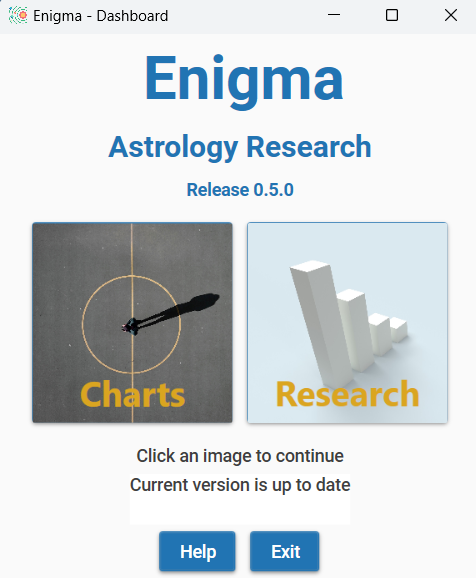
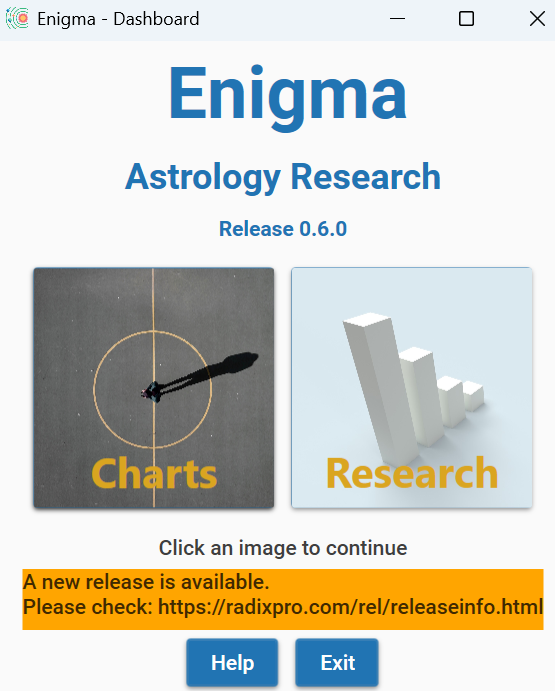
Update user manual and readme.

diff --git a/Enigma/Enigma.Frontend/Views/ConfigurationWindow.xaml b/Enigma/Enigma.Frontend/Views/ConfigurationWindow.xaml
@@ -12,7 +12,7 @@
         FontFamily="pack://application:,,,/MaterialDesignThemes.Wpf;component/Resources/Roboto/#Roboto"
         mc:Ignorable="d"
         WindowStartupLocation="CenterScreen"
-        Title="Enigma - Configuration" Height="720" Width="540">
+        Title="Enigma - Configuration" Height="720" Width="640">
     <Window.Resources>
         <viewModels:ConfigurationViewModel x:Key="ViewModel"/>
     </Window.Resources>

diff --git a/Enigma/docs/md/User-Manual/Appendix.md b/Enigma/docs/md/User-Manual/Appendix.md
@@ -127,8 +127,8 @@ You can add many other points to the calculation:
 
 - **Arabic parts**: Pars Fortunae, both with and without sect.
 
-- **Mathematical points**: Mean Node and True Node, the vernal point (Zero Aries) and foour calculations for the apogee of the Moon: 
-- Mean, Corrected, Interpolated and according to Duval (calculation by Cees Jansen).
+- **Mathematical points**: Mean Node and True Node, the vernal point (Zero Aries), Dragon and Beast (according to Black Lights Astrology) and four calculations for the apogee of the Moon: 
+    - Mean, Corrected, Interpolated and according to Duval (calculation by Cees Jansen).
 
 - **Centaurs**: Chiron, Nessus and Pholus.
 
@@ -280,7 +280,7 @@ Make sure that you use a comma as a separator and do not use quotes.
 
 ## Result files
 
-If you perform a test, Enigma will create several result files. You can find these files in the folder *c:\enigma_ar\project\\[projectname\]\results .*
+If you perform a test, Enigma will create several result files. You can find these files in your workfolder in .\projects\\[projectname\]\results .*
 
 Replace \[projectname\] with the name you used for the project.
 
@@ -337,35 +337,26 @@ In the folder where you installed Enigma is a sub-folder **doc***.*
 
 In this folder, you will find the *User Manual*, the *Release Notes* and the *Roadmap* for Enigma.
 
+The database and configuration files are located in your personal directory: C:\Users\[your name]\AppData\Local\enigma
+
 For data, Enigma uses a separate folder structure. These folders do not exist after install; Enigma creates them the first time you use the application.
 
 The folder structure is:
 
-    C:\enigma_ar\data
-    \[dataname\] (multiple folders)
-        \csv
-        \json
-    \database
-    \docs
-    \export
+    [The work folder you defined]
+    \datafiles\[dataname\] (multiple folders)
+        \orig         (copy of the original file)
+        \standard     (converted version in standard Enigma format)
     \logs
-    \project
+    \projects
         \projectname\] (multiple folders\]
             \results
 
-In **enigma_ar** you will find the files *enigmaconfig.json* and *enigmaprogconfig.json*. These files contain the configuration for Enigma. Please do not edit these files, but use Enigma itself to change the configuration. If you remove these files, Enigma automatically creates a new default configuration.
-
 The folder **data** contains the imported data files. All data files have a sub-folder with the name you defined for the data. In the folder structure, this is **\[dataname\]**. The folders under [dataname] each have two sub-folders: **csv** and **json**. They contain respectively a copy of the imported file and the conversion to JSON format.
-
-In **database** Enigma maintains a database with data for charts and events. It creates this database after the first calculation of a chart.
-
-**Docs** contains the user manual, installation guide, release notes and developerw manual, all in PDF format. 
-
-The folder **export** is for future use.
 
 Enigma saves log files in the folder **logs**. Each day you use Enigma, it creates a new log file. If the number of log files is larger than 31, the program deletes the oldest log file.
 
-The folder **project** contains sub-folders for each project you create. It uses the names for the projects. In the folder structure, you see **\[projectname\]** as placeholder for these names. This folder contains json files for the definition of the project, the test data, and the control data.
+The folder **projects** contains sub-folders for each project you create. It uses the names for the projects. In the folder structure, you see **\[projectname\]** as placeholder for these names. This folder contains json files for the definition of the project, the test data, and the control data.
 
 The sub-folder **results** contains the results of the different tests.
 
@@ -440,13 +431,7 @@ You can join the Facebook group for Enigma:
 
 The website for Enigma - and for other astrological information - is [*https://radixpro.com*](https://radixpro.com/), use [*https://radixpro.org*](https://radixpro.org/) for technical information for programmers.
 
-### Mailing list
 
-You can subscribe to a mailing list. I only send mails for new releases of Enigma.
-
-To subscribe, send a mail with the subject ‘subscribe’ to enigma@radixpro.org
-
-To stop a subscription, send ‘unsubscribe’ to the same address.
 
 ### Source code
 

diff --git a/Enigma/docs/md/User-Manual/Config.md b/Enigma/docs/md/User-Manual/Config.md
@@ -10,19 +10,13 @@
 
 You can access *Settings* from both modules *Charts* and *Research* and check them, but in this release of Enigma, you can not change anything.
 
-Select the menu option **General - Settings**. You will see a window with information about the location of several files.
+Select the menu option **General - Settings**. You will see a window with information about the location of several files. The location depends on the work folder you defined during the first tie you started this version of Enigma. 
 
 - **Data files**. This folder contains the data files you imported.
 
 - The location of **Projects**. All projects will have a sub folder with the name of the project. These sub folders contain all data that is generated for this project.
 
-- Enigma does not yet use **Exported files**. In the future, it will contain the results of exporting data.
-
 - Enigma writes remarks to **Log files**. In case of an error, these log files will be helpful.
-
-- The folder **Database** contains database for calculated charts and other relevant data.
-
-- The **Documentation** includes HTML and PDF versions of the User Manual, Installation Manual, Release Notes and Programmers Manual.
 
   
 
@@ -81,7 +75,11 @@ For each point, you will find a checkbox. Check this box if you want to take the
 There is also a value *Orb%* (Orb percentage) that you can change. Click on the number for the orb and a small pop-up screen appears where you can edit the value. You can enter a percentage from 0 up to 100, make sure you use only whole numbers.
 It is possible to define a percentage for a point that is not selected, so it is easy to remember a percentage if you later decide to include the point. If you want to use a point but not calculate aspects for that point, enter a percentage of zero.
 
-Please note that you cannot deselect the classic points and also not MC or Ascendant. See the Appendix, paragraph *Planets and other celestial points* for more information.
+At the right of the screen you can select a type of correction for the apogee (Black Moon) and (de)select the use of the oscillating (true) lunar node.
+
+See the Appendix, paragraph *Planets and other celestial points* for more information.
+
+
 
 
 

diff --git a/README.md b/README.md
@@ -1,17 +1,6 @@
 # EnigmaSuite
 EnigmaSuite is the repository for Enigma Astrology Research, software that is aimed at supporting research into astrology. 
 Enigma supports both quantitative and qualitative research.
-<<<<<<< HEAD
 
-After finishing release 0.5, a Windows program, the goal was to create a cross-platform version 1.0 of Enigma. Unfortunately, I needed to pause my activities for a while because of circumstances beyond my control. But rest assured that I will start again with fresh energy.
-
-Release 0.5 provides the basics: calculation, drawing, analysis, specifics for declination, progressive techniques (including primary directions), and support for research.
-
-Before starting again with release 1.0, I will create release 0.6 in which I will add support for two approaches: the Black Lights Astrology as promoted by George Bode and the Prenatal approach by Eg Sneek. This release also includes support for geographic coordinates and timezones. And I will optimize the research module, resulting in smaller file sizes and faster processing. Release 0.6 is still a Windows program.
-
-Version 0.5 is already a usable astrology program and version 0.6, will have some important improvements. 
-
-=======
-The current release 0.5.1 provides the basics: calculation, drawing, some analysis, specifics for declination, progressive techniques including primary directions, and support for research.
->>>>>>> origin/master
+Release 0.6 provides the basics: calculation, automatic recognition of geographic coordinates and timezones, drawing, analysis, specifics for declination, progressive techniques (including primary directions), and support for research.
 More information: https://radixpro.com/enigma

diff --git a/Enigma/docs/md/User-Manual/General.md b/Enigma/docs/md/User-Manual/General.md
@@ -70,6 +70,8 @@ Click the Enigma icon to start the program, or search for Enigma in your windows
 
 <img src="img/start-icon.png" style="zoom:50%;" />
 
+The first time you start this version you will first see a small popup window where you can define the location where you want to store the logfiles and research results.
+
 You will see a window with two images, one labeled *Charts* and one labeled *Research*.
 
 <img src="img/start.png" style="zoom: 50%;" />
@@ -81,4 +83,4 @@ Both modules of Enigma use the same configuration and the same settings.
 The settings define the location of files that Enigma uses. The configuration gives you the opportunity to define how Enigma behaves astrologically: which house system, which planets, aspects, and much more.
 
 #### Checking for new releases
-Enigma automatically checks for new releases. If a new release is available, it shows a message in the start window.
+Enigma automatically checks for new releases. If a new release is available, it shows a message in the start window, as shown in the picture above.
